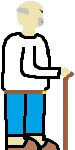
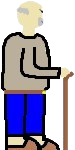
Vykreslení babky, úprava NPCs
Dědkovi a  babče jsem utekl more

diff --git a/Kobliha/Game1.cs b/Kobliha/Game1.cs
@@ -15,8 +15,8 @@ namespace Kobliha
         private int vyskaOkna = 900;
         private int cislo_obrazovky = 1;
         Koblizek kobliha;
-        NPC dedek;
-
+        NPC dedek, babka;
+       
         //konstruktor
         public Game1()
         {
@@ -43,7 +43,10 @@ namespace Kobliha
                  Keys.A, Keys.D, Keys.W, sirkaOkna, vyskaOkna);
 
             dedek = new NPC(GraphicsDevice, 100, "dedek.png",
-                sirkaOkna, vyskaOkna);
+                125 , vyskaOkna - 150);
+
+            babka = new NPC(GraphicsDevice, 100, "babka.png",
+                50, vyskaOkna - 150);
             // TODO: use this.Content to load your game content here
         }
 
@@ -88,6 +91,7 @@ namespace Kobliha
 
             
             dedek.VykresliSe(_spriteBatch);
+            babka.VykresliSe(_spriteBatch);
             kobliha.VykresliSe(_spriteBatch);
 
             _spriteBatch.End();

diff --git a/Kobliha/NPC.cs b/Kobliha/NPC.cs
@@ -18,10 +18,10 @@ namespace Kobliha
         protected Texture2D Textura { get; set; }
 
         public NPC(GraphicsDevice grafickeZarizeni, int velikost, string nazevSouboru,
-            int rozmerOknaX = 0, int rozmerOknaY = 0)
+            int poziceX = 0, int poziceY = 0)
         {
             Velikost = velikost;
-            Pozice = new Vector2(rozmerOknaX / 3, rozmerOknaY -150);
+            Pozice = new Vector2(poziceX, poziceY);
 
 
             using (FileStream stream = new FileStream(nazevSouboru, FileMode.Open))
